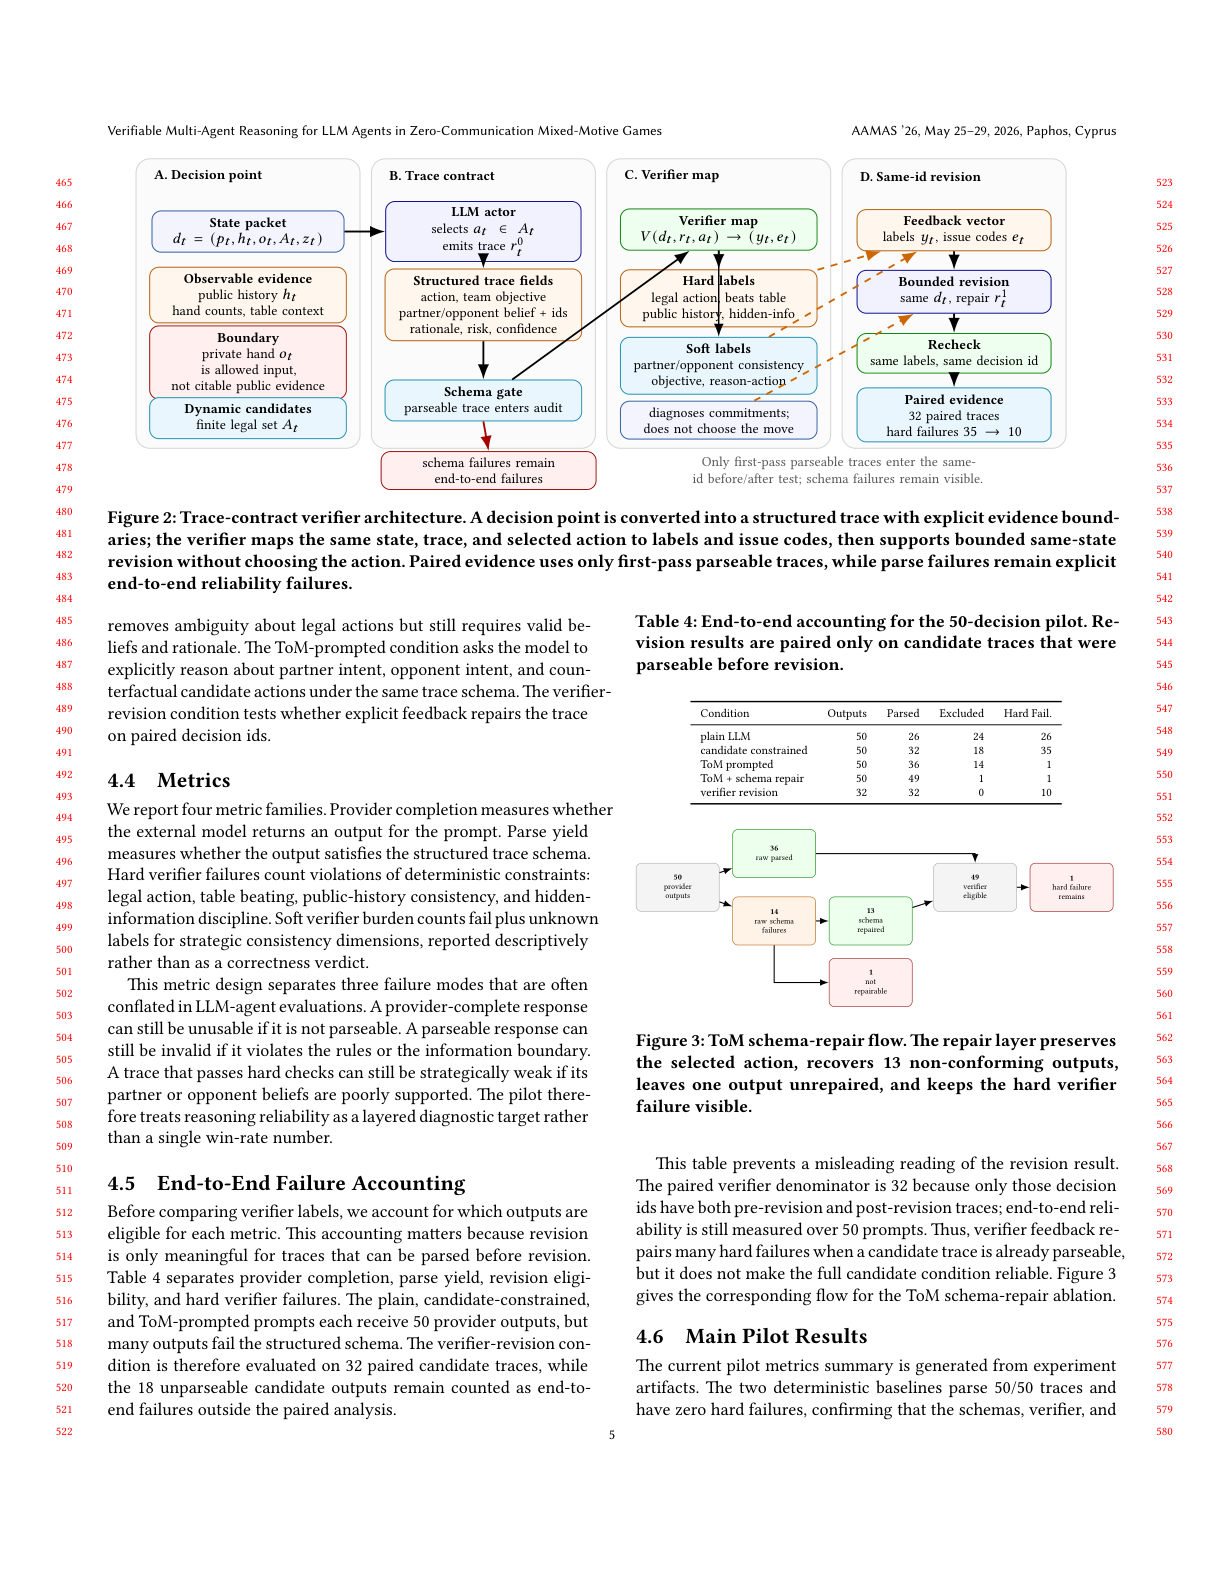
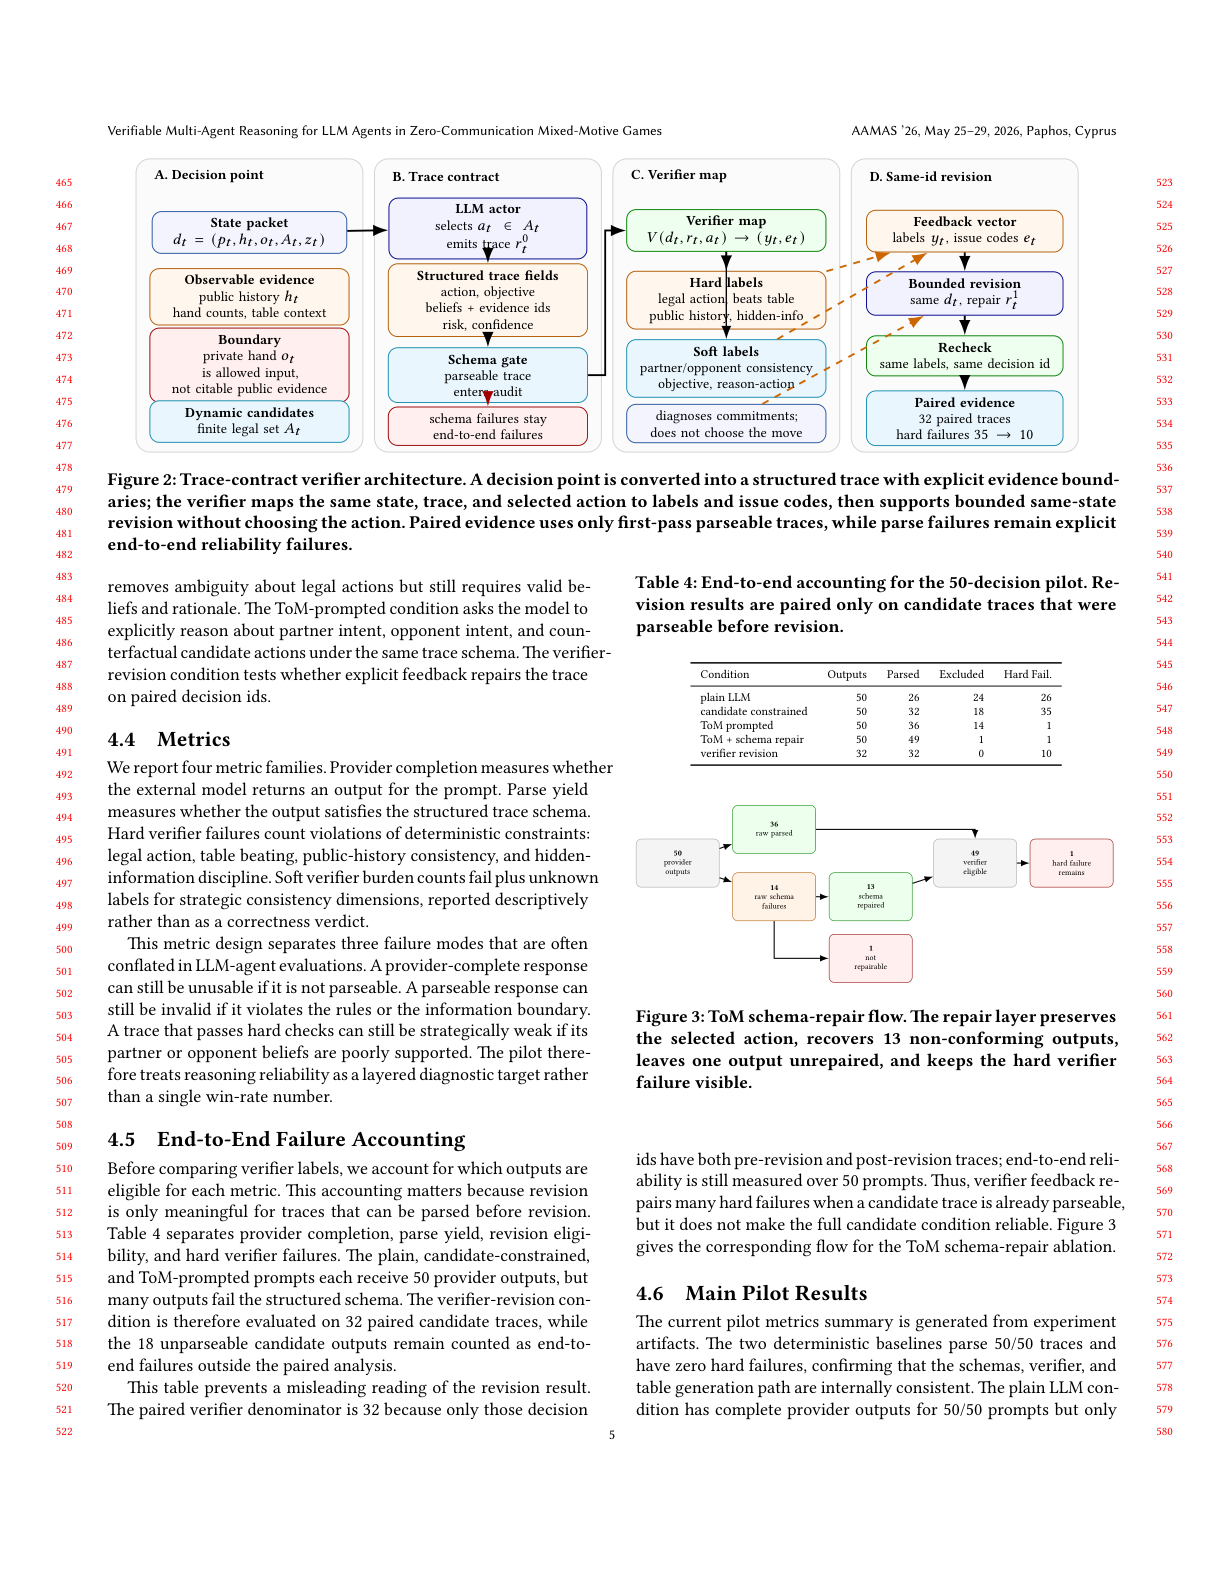
Fix in-paper revision figure layout

diff --git a/docs/research/submission/aamas-latex/main.tex b/docs/research/submission/aamas-latex/main.tex
@@ -268,9 +268,10 @@ Figure~\ref{fig:revision-architecture} summarizes the trace-contract verifier ar
 \node[fail, text width=2.82cm] (hid) at ([yshift=-0.90cm]pa.center) {\textbf{Boundary}\\private hand \(o_t\) is allowed input,\\not citable public evidence};
 \node[metric, text width=2.82cm] (cand) at ([yshift=-1.75cm]pa.center) {\textbf{Dynamic candidates}\\finite legal set \(A_t\)};
 
-\node[model, text width=2.80cm] (llm) at ([yshift=1.10cm]pb.center) {\textbf{LLM actor}\\selects \(a_t\in A_t\)\\emits trace \(r_t^0\)};
-\node[artifact, text width=2.82cm] (trace) at ([yshift=-0.02cm]pb.center) {\textbf{Structured trace fields}\\action, team objective\\partner/opponent belief + ids\\rationale, risk, confidence};
-\node[metric, text width=2.82cm] (parse) at ([yshift=-1.48cm]pb.center) {\textbf{Schema gate}\\parseable trace enters audit};
+\node[model, text width=2.80cm] (llm) at ([yshift=1.16cm]pb.center) {\textbf{LLM actor}\\selects \(a_t\in A_t\)\\emits trace \(r_t^0\)};
+\node[artifact, text width=2.82cm] (trace) at ([yshift=0.08cm]pb.center) {\textbf{Structured trace fields}\\action, objective\\beliefs + evidence ids\\risk, confidence};
+\node[metric, text width=2.82cm] (parse) at ([yshift=-1.05cm]pb.center) {\textbf{Schema gate}\\parseable trace\\enters audit};
+\node[fail, text width=2.82cm, font=\scriptsize] (e2e) at ([yshift=-1.82cm]pb.center) {schema failures stay\\end-to-end failures};
 
 \node[verifier, text width=2.82cm] (vf) at ([yshift=1.13cm]pc.center) {\textbf{Verifier map}\\\(V(d_t,r_t,a_t)\rightarrow(y_t,e_t)\)};
 \node[artifact, text width=2.82cm] (hard) at ([yshift=0.08cm]pc.center) {\textbf{Hard labels}\\legal action, beats table\\public history, hidden-info};
@@ -285,7 +286,7 @@ Figure~\ref{fig:revision-architecture} summarizes the trace-contract verifier ar
 \draw[arrow] (dt) -- (llm);
 \draw[arrow] (llm) -- (trace);
 \draw[arrow] (trace) -- (parse);
-\draw[arrow] (parse) -- (vf);
+\draw[arrow] (parse.east) -- ++(0.26cm,0) |- (vf.west);
 \draw[arrow] (vf) -- (hard);
 \draw[thinarr] (vf) -- (soft);
 \draw[dashedarr] (hard) -- (fb);
@@ -295,8 +296,6 @@ Figure~\ref{fig:revision-architecture} summarizes the trace-contract verifier ar
 \draw[arrow] (recheck) -- (paired);
 \draw[dashedarr] (oracle) -- (rev);
 
-\node[fail, text width=3.10cm, font=\scriptsize] (e2e) at ([xshift=0.08cm,yshift=-2.55cm]pb.center) {schema failures remain end-to-end failures};
-\node[note, text width=7.15cm] (denom) at ([xshift=0.10cm,yshift=-2.55cm]pc.east) {Only first-pass parseable traces enter the same-id before/after test; schema failures remain visible.};
 \draw[arrow, draw=red!65!black] (parse.south) -- (e2e.north);
 \end{tikzpicture}
 }

diff --git a/docs/research/submission/reproducibility-manifest.md b/docs/research/submission/reproducibility-manifest.md
@@ -1,6 +1,6 @@
 # Reproducibility Manifest
 
-Generated at: `2026-06-20T18:46:47.662Z`
+Generated at: `2026-06-20T18:53:54.040Z`
 
 Missing entries are audit findings, not experimental results. Pending entries are expected external-evidence gaps tracked by readiness gates.
 
@@ -36,10 +36,10 @@ Missing entries are audit findings, not experimental results. Pending entries ar
[14 lines of base64/hex data omitted]
@@ -135,17 +135,17 @@ Missing entries are audit findings, not experimental results. Pending entries ar
[25 lines of base64/hex data omitted]

diff --git a/docs/research/submission/aamas-readiness/aamas-readiness-report.md b/docs/research/submission/aamas-readiness/aamas-readiness-report.md
@@ -1,6 +1,6 @@
 # AAMAS Full-Paper Readiness Report
 
-Generated at: `2026-06-20T18:46:46.069Z`
+Generated at: `2026-06-20T18:53:52.368Z`
 
 Paper: **Verifiable Multi-Agent Reasoning for LLM Agents in Zero-Communication Mixed-Motive Games**
 

diff --git a/docs/research/submission/aamas-reviewer-response/aamas-reviewer-response-matrix.md b/docs/research/submission/aamas-reviewer-response/aamas-reviewer-response-matrix.md
@@ -1,6 +1,6 @@
 # AAMAS Reviewer-Response Matrix
 
-Generated at: `2026-06-20T18:46:46.865Z`
+Generated at: `2026-06-20T18:53:53.195Z`
 
 Paper: **Verifiable Multi-Agent Reasoning for LLM Agents in Zero-Communication Mixed-Motive Games**
 

diff --git a/docs/research/submission/aamas-self-review/aamas-self-review-report.md b/docs/research/submission/aamas-self-review/aamas-self-review-report.md
@@ -1,6 +1,6 @@
 # AAMAS Adversarial Self-Review Report
 
-Generated at: `2026-06-20T18:46:46.467Z`
+Generated at: `2026-06-20T18:53:52.784Z`
 
 Paper: **Verifiable Multi-Agent Reasoning for LLM Agents in Zero-Communication Mixed-Motive Games**
 

diff --git a/docs/research/submission/finalizer/aamas-submission-finalizer-report.md b/docs/research/submission/finalizer/aamas-submission-finalizer-report.md
@@ -1,6 +1,6 @@
 # AAMAS Submission Finalizer Report
 
-Generated at: `2026-06-20T18:46:47.846Z`
+Generated at: `2026-06-20T18:53:54.213Z`
 
 Status: `needs_revision`
 Submission readiness: `not_ready`

diff --git a/docs/research/submission/human-audit-evidence-gate/human-audit-evidence-gate.md b/docs/research/submission/human-audit-evidence-gate/human-audit-evidence-gate.md
@@ -1,6 +1,6 @@
 # Human Audit Evidence Gate
 
-Generated at: `2026-06-20T18:46:45.101Z`
+Generated at: `2026-06-20T18:53:51.293Z`
 
 Status: `awaiting_returns`
 

diff --git a/docs/research/submission/human-audit-launch/human-audit-launch-checklist.md b/docs/research/submission/human-audit-launch/human-audit-launch-checklist.md
@@ -1,6 +1,6 @@
 # Human Audit Launch Checklist
 
-Generated at: `2026-06-20T18:46:44.685Z`
+Generated at: `2026-06-20T18:53:50.889Z`
 
 Status: `ready_to_send`
 Ready for annotation: `true`

diff --git a/docs/research/submission/preflight/research-preflight-report.md b/docs/research/submission/preflight/research-preflight-report.md
@@ -1,7 +1,7 @@
 # Research Preflight Report
 
 Status: `research_not_ready`
-Generated at: `2026-06-20T18:46:47.261Z`
+Generated at: `2026-06-20T18:53:53.600Z`
 
 Submission gate: `ready`
 Local ready: `true`

diff --git a/docs/research/submission/aamas-latex/build-status.md b/docs/research/submission/aamas-latex/build-status.md
@@ -18,6 +18,7 @@ Date: 2026-06-21
 - Table and figure placement was checked from rendered PNG pages under `submission/aamas-latex/page-renders/`; the latest pass used PyMuPDF because `pdftoppm` was not installed locally.
 - Figure 1 now functions as the front-door teaser with a two-layer accepted-paper-style structure: the top layer contrasts explicit communication with zero-communication Guandan team play, and the bottom layer traces decision packet -> structured trace -> rule-grounded verifier -> same-id paired evidence. Rendered page 2 was refreshed after the update; no text clipping or page-count change was observed, and the draft remains 9 pages.
 - A follow-up figure overflow QA pass shortened and reflowed in-box labels across Figures 1, 2, 4, and 5. The SVG text-overflow heuristic reports 0 candidate overflow issues, Figure 1 was re-rendered to PNG at the original 1500x700 aspect ratio, page 2 was visually checked from the rebuilt PDF, and the draft remains 9 pages.
+- A second visual pass fixed the in-paper TikZ Figure 2 layout: the schema-failure box now stays inside the Trace contract panel, the parse-to-verifier connector uses a contained elbow path, and the external in-figure denominator note was removed because the caption already states the denominator rule. Rendered page 5 was refreshed and the draft remains 9 pages.
 - Figure 2 now uses a full-width four-panel trace-contract verifier architecture diagram: decision-point evidence, structured trace contract, verifier label map, and same-id revision accounting. Rendered page 5 was refreshed and checked for arrow/label overlap, awkward line breaks, and page-count stability; the draft remains 9 pages.
 - The old page-4 pipeline figure was removed rather than duplicated, keeping the draft at 9 total pages.
 - The qualitative case table was replaced with Figure 5, a two-by-two verifier-attribution case-flow diagram showing two repaired semantic failures, one unrepaired hard failure, and one schema failure outside the paired subset. Rendered page 8 was refreshed and visually checked after shortening in-panel notes and confirming that the draft remains 9 pages.